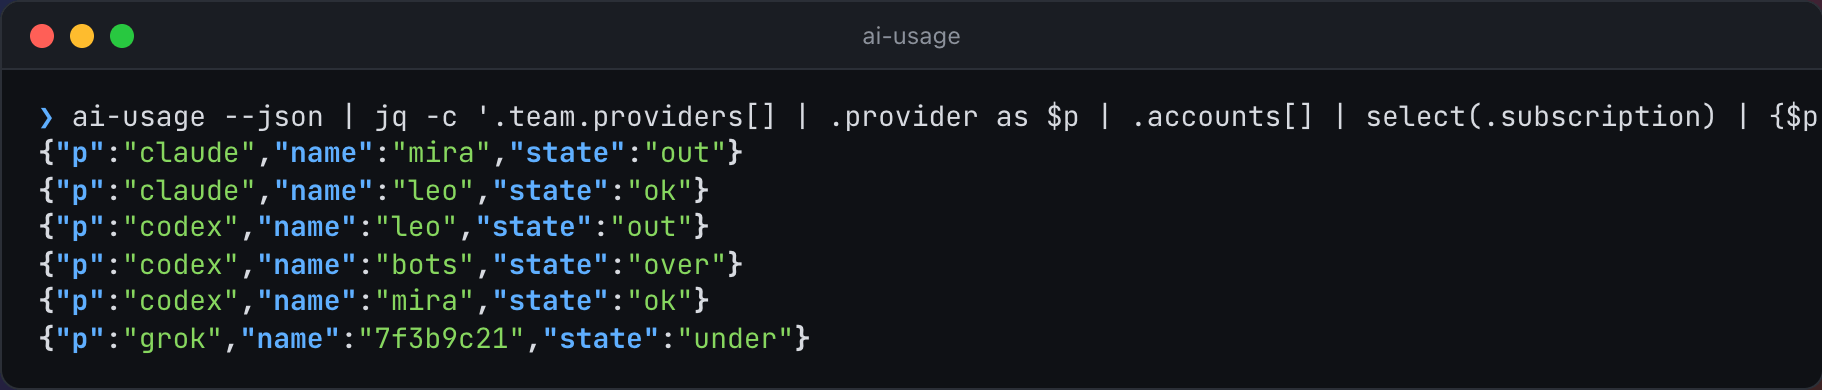
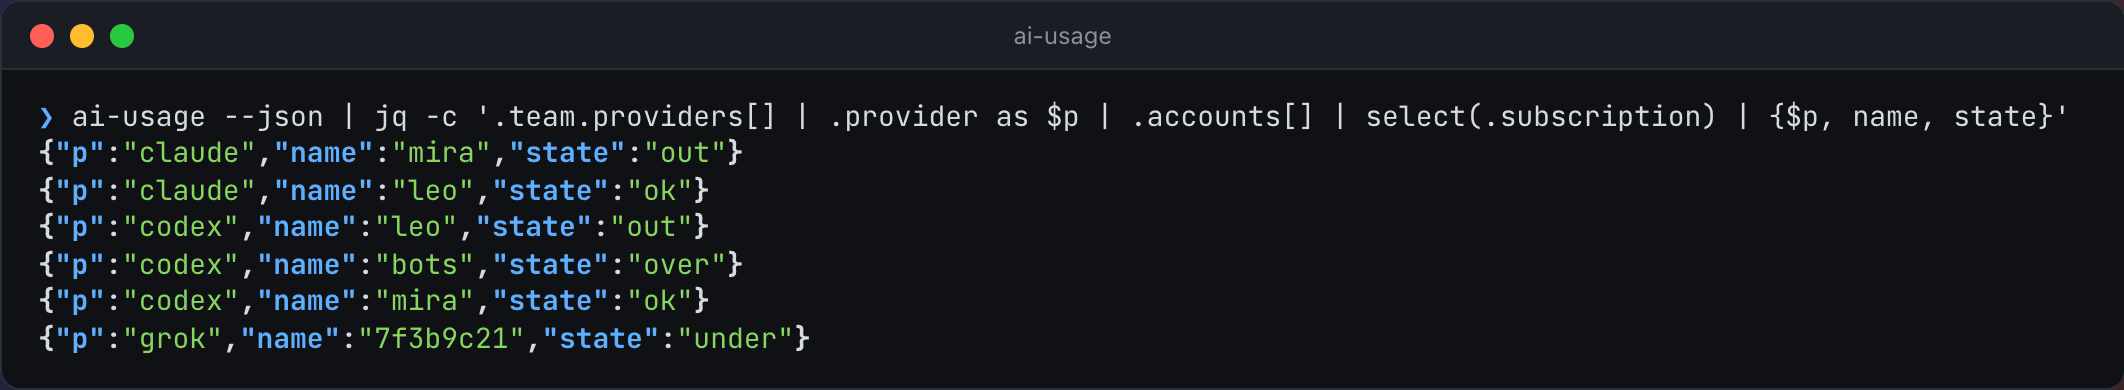
Picture the install, the relay's view of a snapshot, the matrix, and how a team's numbers travel, for posts.
The demo script prints the solo report with the first run's guide under it, and the snapshot its laptop would publish, sealed with a made-up key. The JSON picture is wide enough for its command.

diff --git a/scripts/demo/diagram.html b/scripts/demo/diagram.html
@@ -1,0 +1,120 @@
+<!doctype html>
+<meta charset="utf-8">
+<!-- How a team's numbers travel, for posts. shots.ts photographs .frame. -->
+<link rel="preconnect" href="https://fonts.googleapis.com"><link rel="preconnect" href="https://fonts.gstatic.com" crossorigin>
+<link href="https://fonts.googleapis.com/css2?family=JetBrains+Mono:wght@400;700&family=Inter:wght@400;600;700&display=block" rel="stylesheet">
+<style>
+:root{--bg:#0f1115;--fg:#d7dae0;--dim:#6c7280;--card:#161920;--border:#2b2f37;--blue:#5fafff;--green:#87d75f;--yellow:#ffd75f;--red:#ff5f5f;--violet:#d787ff;--cyan:#5fd7d7}
+*{margin:0;padding:0;box-sizing:border-box}
+body{background:var(--bg);color:var(--fg);font:15px/1.4 Inter,-apple-system,sans-serif;-webkit-font-smoothing:antialiased}
+.frame{display:inline-block;padding:56px 60px;background:linear-gradient(135deg,#1e2a4a 0%,#3b1f4a 55%,#4a2a1f 100%)}
+.board{width:1460px;background:var(--bg);border:1px solid var(--border);border-radius:14px;box-shadow:0 24px 64px rgba(0,0,0,.35);padding:34px 38px 30px}
+h1{font-size:26px;font-weight:700;letter-spacing:-.01em}
+h1 b{font-family:"JetBrains Mono",monospace;color:var(--blue)}
+.lede{color:var(--dim);margin-top:4px;font-size:15px}
+.flow{display:grid;grid-template-columns:300px 1fr 350px 1fr 318px;align-items:center;margin-top:30px}
+.col h2{font-size:12px;font-weight:600;letter-spacing:.08em;text-transform:uppercase;color:var(--dim);margin-bottom:10px}
+.card{background:var(--card);border:1px solid var(--border);border-radius:10px;padding:10px 13px;margin-bottom:9px}
+.card .name{font:700 14px "JetBrains Mono",monospace}
+.card .where{font-size:12.5px;color:var(--dim);margin-left:6px}
+.chips{margin-top:6px;display:flex;flex-wrap:wrap;gap:5px}
+.chip{font:12px "JetBrains Mono",monospace;padding:1px 7px;border-radius:5px;border:1px solid var(--border)}
+.c{color:#ffaf87}.x{color:var(--green)}.g{color:var(--cyan)}.h{color:var(--violet)}
+.note{font-size:13px;color:var(--dim);margin-top:4px}
+.arrow{position:relative;height:120px;display:flex;flex-direction:column;justify-content:center;padding:0 8px}
+.arrow .line{height:2px;background:linear-gradient(90deg,var(--border),var(--blue));position:relative;margin:10px 0}
+.arrow .line:after{content:"";position:absolute;right:-2px;top:-6px;border:7px solid transparent;border-left:10px solid var(--blue);border-right:0}
+.arrow .top{font-size:13.5px;font-weight:600;text-align:center;white-space:nowrap}
+.arrow .bottom{font-size:12.5px;color:var(--dim);text-align:center}
+.relay{background:var(--card);border:1px solid var(--blue);border-radius:12px;padding:16px 18px}
+.relay .title{font:700 17px "JetBrains Mono",monospace;color:var(--blue)}
+.relay .sub{font-size:12.5px;color:var(--dim);margin-top:2px}
+.relay h3{font-size:12px;font-weight:600;letter-spacing:.06em;text-transform:uppercase;margin:14px 0 5px}
+.relay ul{list-style:none;font-size:13.5px}
+.relay li{padding-left:18px;position:relative;margin:2px 0}
+.relay li:before{position:absolute;left:0;font-family:"JetBrains Mono",monospace}
+.plain h3{color:var(--green)}.plain li:before{content:"✓";color:var(--green)}
+.sealed h3{color:var(--yellow)}.sealed li:before{content:"■";color:var(--yellow);font-size:11px;top:2px}
+.sealed li span{background:#2b2f37;color:#2b2f37;border-radius:3px;padding:0 4px;margin-left:4px;font:11px "JetBrains Mono",monospace}
+.relay .foot{font-size:12.5px;color:var(--dim);margin-top:12px;border-top:1px solid var(--border);padding-top:9px}
+.term{background:#0b0d10;border:1px solid var(--border);border-radius:10px;overflow:hidden}
+.term .bar{height:26px;background:#1a1d23;border-bottom:1px solid var(--border);display:flex;align-items:center;gap:6px;padding:0 10px}
+.term .bar i{width:10px;height:10px;border-radius:50%;display:block}
+.term pre{font:12px/1.45 "JetBrains Mono",monospace;padding:10px 12px;white-space:pre;color:var(--fg)}
+.b{font-weight:700}.d{color:var(--dim)}.r{color:var(--red)}.y{color:var(--yellow)}.gr{color:var(--green)}.bl{color:var(--blue)}
+.foot2{display:flex;gap:26px;margin-top:24px;padding-top:16px;border-top:1px solid var(--border);font-size:13.5px;color:var(--dim)}
+.foot2 b{color:var(--fg);font-weight:600}
+</style>
+<body><div class="frame"><div class="board">
+<h1><b>ai-usage</b> for a team: one relay, no one reads your names</h1>
+<div class="lede">Every machine sends a small signed snapshot; every machine gets the whole team back and opens it with the team key.</div>
+
+<div class="flow">
+  <div class="col">
+    <h2>each machine, every 15 min</h2>
+    <div class="card"><span class="name">mira-mbp</span><span class="where">macOS · launchd</span>
+      <div class="chips"><span class="chip c">claude</span><span class="chip x">codex</span><span class="chip g">grok</span></div></div>
+    <div class="card"><span class="name">leo-air</span><span class="where">macOS · launchd</span>
+      <div class="chips"><span class="chip c">claude</span><span class="chip x">codex</span></div></div>
+    <div class="card"><span class="name">build-01</span><span class="where">Linux · cron</span>
+      <div class="chips"><span class="chip x">codex</span><span class="chip c">claude</span><span class="chip h">hermes</span></div></div>
+    <div class="card"><span class="name">9 bots</span><span class="where">containers · schedule run</span>
+      <div class="chips"><span class="chip h">hermes → codex bots@</span></div></div>
+    <div class="note">reads the logs the tools already keep, and asks each tool for its quota</div>
+  </div>
+
+  <div class="arrow">
+    <div class="top">signed snapshot, ≤ 64 KB</div>
+    <div class="line"></div>
+    <div class="bottom">names, emails, paths sealed<br>with the team key</div>
+  </div>
+
+  <div class="relay">
+    <div class="title">relay</div>
+    <div class="sub">one snapshot per machine · hosted, Vercel + Upstash, <span style="font-family:'JetBrains Mono',monospace">relay serve</span>, or Docker</div>
+    <div class="plain"><h3>sees</h3><ul>
+      <li>tools and plans</li>
+      <li>quota %, reset times</li>
+      <li>token counts and when</li>
+    </ul></div>
+    <div class="sealed"><h3>cannot read</h3><ul>
+      <li>machine and user names<span>aGx0b2</span></li>
+      <li>emails, account names<span>Zm9vYm</span></li>
+      <li>project paths, errors<span>cGF0aA</span></li>
+    </ul></div>
+    <div class="foot">checks the signature and the shape; stores nothing else</div>
+  </div>
+
+  <div class="arrow">
+    <div class="top">the whole team</div>
+    <div class="line"></div>
+    <div class="bottom">signatures checked, sealed<br>fields opened on the machine</div>
+  </div>
+
+  <div class="col">
+    <h2>any machine in the team</h2>
+    <div class="term"><div class="bar"><i style="background:#ff5f57"></i><i style="background:#febc2e"></i><i style="background:#28c840"></i></div>
+<pre><span class="bl b">$</span> ai-usage
+<span class="b">ATTENTION</span>
+ <span class="r b">OUT </span>  claude mira · 5h
+ <span class="r b">OVER</span>  codex bots@studio.dev
+       <span class="d">runs out ~Fri 08:59</span>
+ <span class="y b">SILENT</span> courier <span class="d">1d 5h</span>
+
+<span class="b">DEVICES × SUBSCRIPTIONS</span> <span class="d">7d</span>
+             mira   bots  <span class="b">TOTAL</span>
+  build-01     26    141    167
+<span class="gr">●</span> mira-mbp    104      ·    162
+  scout         ·     49     49
+  <span class="d">… 10 more</span></pre></div>
+  </div>
+</div>
+
+<div class="foot2">
+  <span><b>Ed25519</b> signatures</span>
+  <span><b>AES-256-GCM</b> sealed fields</span>
+  <span><b>one key</b> = one team, up to 50 machines</span>
+  <span><b>no relay?</b> it reports on this machine alone</span>
+</div>
+</div></div>
+<script>document.fonts.ready.then(()=>document.body.classList.add("ready"))</script>

diff --git a/scripts/demo/shots.ts b/scripts/demo/shots.ts
@@ -37,6 +37,9 @@ type Shot = {
   rows?: number;
   // Only lines [first, last) of the printed report.
   lines?: [number, number];
+  // Only the section from the line that starts with the first text to the
+  // line before the one that starts with the second.
+  cut?: [string, string];
   // A shell line run instead of ai-usage, with $AI_USAGE as the binary.
   shell?: string;
   theme?: Theme;
@@ -50,15 +53,35 @@ const shots: Shot[] = [
   { name: "team-devices", from: "team.json", cols: 124, typed: "ai-usage --devices", args: ["--devices"] },
   { name: "team-80", from: "team.json", cols: 80, typed: "ai-usage" },
   { name: "team-attention", from: "team.json", cols: 124, typed: "ai-usage", lines: [0, 25], social: true },
+  { name: "team-matrix", from: "team.json", cols: 124, typed: "ai-usage", cut: ["DEVICES", "PROJECTS"], social: true },
   { name: "team-bots", from: "team.json", cols: 124, keys: ["%"], rows: 52, social: true },
   { name: "team-status", from: "team.json", cols: 124, keys: ["s"], rows: 52 },
   { name: "team-help", from: "team.json", cols: 124, keys: ["?"], rows: 40 },
   { name: "solo", from: "solo.json", cols: 110, typed: "ai-usage", social: true },
   { name: "solo-forecast", from: "solo.json", cols: 110, typed: "ai-usage", lines: [0, 19], social: true },
   {
+    name: "install",
+    from: "solo.json",
+    cols: 110,
+    typed: "curl -fsSL https://raw.githubusercontent.com/neoromantic/ai-usage/main/install.sh | sh",
+    shell: `printf '%s\n' 'ai-usage install: downloading ai-usage_darwin_arm64' \
+      'ai-usage install: installed v0.2.4 to /Users/mira/.local/bin/ai-usage' \
+      'ai-usage install: first run: collecting and registering with the system scheduler'
+      go run ./scripts/demo guide 110`,
+    social: true,
+  },
+  {
+    name: "relay-view",
+    from: "solo.json",
+    cols: 100,
+    typed: "# what the relay keeps for mira-mbp, trimmed",
+    shell: `go run ./scripts/demo snapshot | jq -C '{collector_version, device_label, os_user, account: .accounts[0] | {provider, label, plan, windows: [.windows[] | {name, percent}], sessions, projects: [.projects[0:2][].path]}}'`,
+    social: true,
+  },
+  {
     name: "json",
     from: "team.json",
-    cols: 104,
+    cols: 122,
     typed: `ai-usage --json | jq -c '.team.providers[] | .provider as $p | .accounts[] | select(.subscription) | {$p, name, state}'`,
     shell: `"$AI_USAGE" report --from docs/demo/team.json --json | jq -C -c '.team.providers[] | .provider as $p | .accounts[] | select(.subscription) | {$p, name, state}'`,
     social: true,
@@ -234,6 +257,13 @@ async function printed(s: Shot, theme: Theme): Promise<string> {
     text = await $`${bin} report --from ${join(out, s.from)} --width ${s.cols} --color always --plain ${s.args ?? []}`.env(e).text();
   }
   if (s.lines) text = text.split("\n").slice(...s.lines).join("\n");
+  if (s.cut) {
+    const lines = text.split("\n");
+    const plain = lines.map((l) => l.replace(/\x1b\[[0-9;]*m/g, ""));
+    const first = plain.findIndex((l) => l.startsWith(s.cut![0]));
+    const last = plain.findIndex((l, i) => i > first && l.startsWith(s.cut![1]));
+    text = lines.slice(first, last < 0 ? undefined : last).join("\n");
+  }
   return text;
 }
 
@@ -299,6 +329,13 @@ async function shootTour() {
   console.log([mp4, gif].map((p) => p.replace(root + "/", "")).join("\n"));
 }
 
+// diagram photographs scripts/demo/diagram.html, the architecture.
+async function diagram() {
+  const path = join(out, "social", "architecture.png");
+  await photograph(join(import.meta.dir, "diagram.html"), [{ selector: ".frame", path }]);
+  console.log(path.replace(root + "/", ""));
+}
+
 const only = process.argv.slice(2);
 const wanted = (name: string) => only.length === 0 || only.some((o) => name.startsWith(o));
 try {
@@ -307,6 +344,7 @@ try {
   mkdirSync(join(out, "social"), { recursive: true });
   await browser("set", "viewport", "1600", "2400", "2");
   for (const s of shots) if (wanted(s.name)) await shoot(s);
+  if (wanted("architecture")) await diagram();
   if (wanted("tour")) await shootTour();
 } finally {
   await tmux("kill-server");

diff --git a/scripts/demo/main.go b/scripts/demo/main.go
@@ -4,7 +4,9 @@
 // report, so its forecasts, attention, and matrix agree with its readings
 // and tokens. `ai-usage report --from FILE` shows one.
 //
-//	go run ./scripts/demo docs/demo
+//	go run ./scripts/demo docs/demo    # write the reports
+//	go run ./scripts/demo guide 110     # print the solo page as a first run does
+//	go run ./scripts/demo snapshot      # print what the solo device sends the relay
 package main
 
 import (
@@ -14,6 +16,7 @@ import (
 	"math/rand/v2"
 	"os"
 	"path/filepath"
+	"strings"
 	"time"
 
 	"github.com/neoromantic/ai-usage/internal/collect"
@@ -38,6 +41,18 @@ func main() {
 	if len(os.Args) > 1 {
 		out = os.Args[1]
 	}
+	switch out {
+	case "guide":
+		firstRun()
+		return
+	case "snapshot":
+		b, err := json.MarshalIndent(soloDevice(now.Add(-4*time.Minute)).doc(demoKey()), "", "  ")
+		if err != nil {
+			panic(err)
+		}
+		fmt.Println(string(b))
+		return
+	}
 	for name, build := range map[string]func() view.Report{"solo": solo, "team": teamReport} {
 		b, err := json.MarshalIndent(build(), "", "  ")
 		if err != nil {
@@ -54,16 +69,38 @@ func main() {
 // solo is one developer on one laptop with three subscriptions: Claude
 // runs out before its reset, Codex has room, and Grok sits nearly unused.
 func solo() view.Report {
+	return soloDevice(now.Add(-4 * time.Minute)).report(nil)
+}
+
+// firstRun prints the solo page as the installer's first run does: the
+// report as of the run, then the guide. The width is the argument after
+// guide, and COLORFGBG says whether the terminal is light.
+func firstRun() {
+	width := 110
+	if len(os.Args) > 2 {
+		if _, err := fmt.Sscan(os.Args[2], &width); err != nil {
+			panic(err)
+		}
+	}
+	d := soloDevice(now)
+	d.st.Update.Latest = ""
+	o := view.Options{Width: width, Color: true, Dark: !strings.HasSuffix(os.Getenv("COLORFGBG"), ";15")}
+	r := d.report(nil)
+	fmt.Print(view.Text(r, o) + "\n" + view.Guide(r, "launchd", o))
+}
+
+// soloDevice is solo's laptop, last collected at at.
+func soloDevice(at time.Time) *device {
 	rng := rand.New(rand.NewPCG(1, 1))
-	d := newDevice(rng, "d-demo-solo", "mira-mbp", "mira", "/Users/mira", latest, now.Add(-4*time.Minute), "claude", "codex", "grok")
-	d.account("claude", "mira@studio.dev", "max", true, now.Add(-4*time.Minute),
+	d := newDevice(rng, "d-demo-solo", "mira-mbp", "mira", "/Users/mira", latest, at, "claude", "codex", "grok")
+	d.account("claude", "mira@studio.dev", "max", true, at,
 		window("5h", 35, 5*time.Hour, 2*time.Hour+10*time.Minute),
 		window("7d", 71, week, 2*24*time.Hour+9*time.Hour+20*time.Minute),
 		window("7d Fable", 93, week, 2*24*time.Hour+9*time.Hour+20*time.Minute))
-	d.account("codex", "mira@studio.dev", "pro", true, now.Add(-4*time.Minute),
+	d.account("codex", "mira@studio.dev", "pro", true, at,
 		window("5h", 6, 5*time.Hour, 3*time.Hour+45*time.Minute),
 		window("7d", 22, week, 4*24*time.Hour+19*time.Hour))
-	d.account("grok", "7f3b9c21-4e8a-4d6b-a1c5-2e9f0b7d8a64", "SuperGrok", true, now.Add(-4*time.Minute),
+	d.account("grok", "7f3b9c21-4e8a-4d6b-a1c5-2e9f0b7d8a64", "SuperGrok", true, at,
 		window("7d", 9, week, 1*24*time.Hour+22*time.Hour))
 	d.work("claude", "mira@studio.dev", "/Users/mira/src/orbit/web", 16, 90)
 	d.work("claude", "mira@studio.dev", "/Users/mira/src/orbit/api", 9, 60)
@@ -73,7 +110,7 @@ func solo() view.Report {
 	d.workTo(now.Add(-26*time.Hour), "codex", "mira@studio.dev", "/Users/mira/src/ml-playground", 2, 20)
 	d.workTo(now.Add(-3*24*time.Hour), "grok", "7f3b9c21-4e8a-4d6b-a1c5-2e9f0b7d8a64", "/Users/mira/src/ml-playground", 0.6, 30)
 	d.workTo(now.Add(-4*24*time.Hour), "claude", "mira@studio.dev", "/Users/mira/dotfiles", 0.4, 90)
-	return d.report(nil)
+	return d
 }
 
 // teamReport is a small studio: two laptops, a Linux server, and nine

diff --git a/docs/demo/README.md b/docs/demo/README.md
@@ -27,12 +27,16 @@ TZ=Europe/Berlin ai-usage report --from docs/demo/solo.json --plain --width 110
 | `team.png`, `team-light.png` | the whole team page, dark and light; the README's picture |
 | `team-80.png` | the same page at 80 columns, the narrowest layout; tall, for phones |
 | `team-attention.png` | ATTENTION and SUBSCRIPTIONS only |
+| `team-matrix.png` | DEVICES × SUBSCRIPTIONS only: every machine and bot against every subscription |
 | `team-bots.png` | the interactive view after `%`: each machine's share of each subscription, such as how the server and the nine bots split `bots` |
 | `team-status.png`, `team-devices.png` | DEVICES as each machine's status: release, last report, tools, errors; interactive and printed |
 | `team-help.png` | the interactive view's help, `?` |
 | `solo.png` | one developer's page, with USAGE in place of the matrix |
 | `solo-forecast.png` | the solo page's top: the forecast lines |
+| `install.png` | `curl … \| sh` through the first report and the guide printed under it, for `solo.json`'s developer |
+| `relay-view.png` | what the relay keeps for `mira-mbp`, trimmed: names, emails, and paths sealed, numbers plain |
 | `json.png` | `ai-usage --json` through `jq`: what an agent reads |
+| `social/architecture.png` | how a team's numbers travel, drawn from `scripts/demo/diagram.html` |
 | `social/*.png` | the pictures marked for posts, on a backdrop |
 | `social/tour.mp4`, `social/tour.gif` | the interactive view, key by key: the page, `s` status, `%` share, `p` 30 days, `?` help |
 
@@ -49,4 +53,5 @@ The script regenerates the two reports and builds `ai-usage`. It shows each pict
 
 - **Another picture:** add an entry to `shots` in `scripts/demo/shots.ts`: the report, the width, the flags or keys, and whether it is for posts.
 - **Another story:** add a report in `scripts/demo/main.go`: its machines, their logins and readings, and how much each spends a day on which project.
+- **The first run and the relay's view:** `go run ./scripts/demo guide 110` prints the solo report with the guide a first run prints under it, and `go run ./scripts/demo snapshot` the snapshot `mira-mbp` would publish, sealed with a made-up team key. `install` and `relay-view` are made from them.
 - **After a change to the report's schema:** run the script again. `--from` refuses a report of another `schema_version`.
